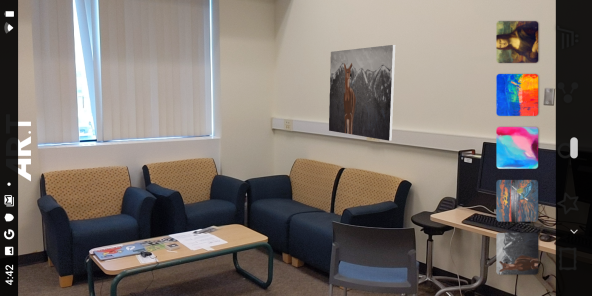
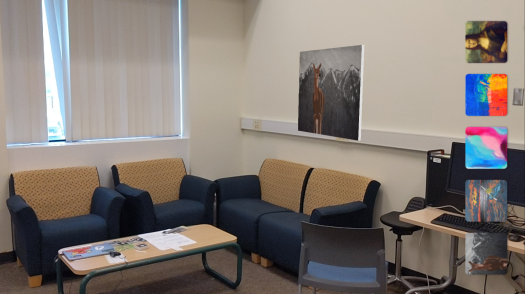
cropped screenshot, fixed mobile layout

diff --git a/index.html b/index.html
@@ -41,11 +41,11 @@
           <img class='logo' src="slice-1.png" alt='ARt logo'>
         </h3>
       </div>
-
+      <p></p>
       <div class="jumbotron">
         <!--h1>Video or screenshot</h1-->
         <p class="lead"><strong>An Augmented Reality App for Art Buyers and Sellers</strong></p>
-        <img class='screenshot' src="screenshot.png" class='rounded' alt='App screenshot'>
+        <img class="img-responsive center-block" src="screenshot.png" alt='App screenshot'>
         <p></p>
         <p class="lead">Preview art in your home or office before you buy.</p>
         <p><a class="btn btn-lg btn-success" href="#" role="button">Coming Soon!</a></p>
